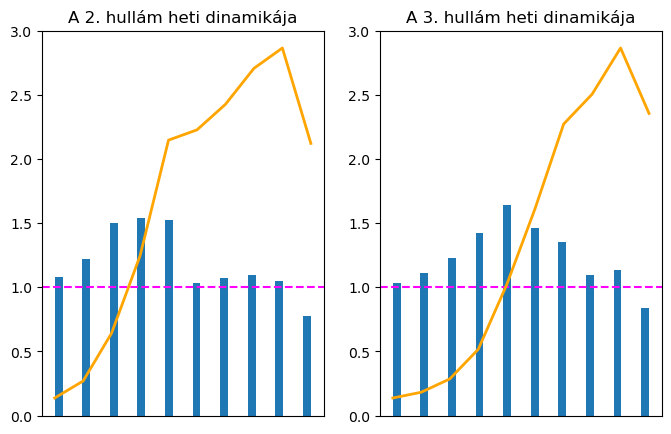
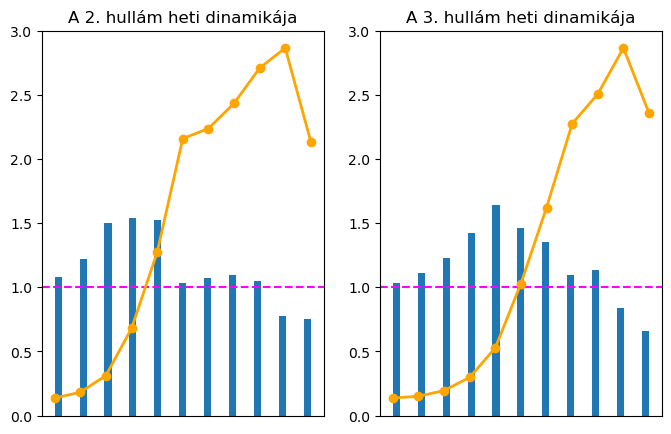
Csúcsok ábra érthetőbbé tétele

diff --git a/kép_covid_terjedése_csúcsok.py b/kép_covid_terjedése_csúcsok.py
@@ -28,10 +28,10 @@ dfheti['Terjedés'] = dfheti['Heti új fertőzöttek átlaga'] / dfheti['Előző
 dfheti = dfheti[['Dátum', "Heti új fertőzöttek átlaga", 'Előző fertőzött átlag', 'Terjedés']]
 
 df2 = dfheti[dfheti['Dátum'] >= "2020-09-29"]
-df2 = df2[df2['Dátum'] < "2020-12-13"]
+df2 = df2[df2['Dátum'] < "2020-12-20"]
 
 df3 = dfheti[dfheti['Dátum'] >= "2021-01-25"]
-df3 = df3[df3['Dátum'] < "2021-04-05"]
+df3 = df3[df3['Dátum'] < "2021-04-12"]
 
 pd.plotting.register_matplotlib_converters()
 
@@ -55,7 +55,7 @@ ax.set_title("A 2. hullám heti dinamikája")
 ax.axhline(1.0,color='magenta',ls='--')
 
 ax2=fig.add_subplot(121, label="2", frame_on=False)
-ax2.plot(df2['Dátum'], df2['Heti új fertőzöttek átlaga'], color="orange", linewidth=2.0)
+ax2.plot(df2['Dátum'], df2['Előző fertőzött átlag'], color="orange", linewidth=2.0, marker='o')
 ax2.xaxis.set_visible(False)
 ax2.yaxis.set_visible(False)
 
@@ -67,7 +67,7 @@ ax3.set_title("A 3. hullám heti dinamikája")
 ax3.axhline(1.0,color='magenta',ls='--')
 
 ax4=fig.add_subplot(122, label="4", frame_on=False)
-ax4.plot(df3['Dátum'], df3['Heti új fertőzöttek átlaga'], color="orange", linewidth=2.0)
+ax4.plot(df3['Dátum'], df3['Előző fertőzött átlag'], color="orange", linewidth=2.0, marker='o')
 ax4.xaxis.set_visible(False)
 ax4.yaxis.set_visible(False)
 
